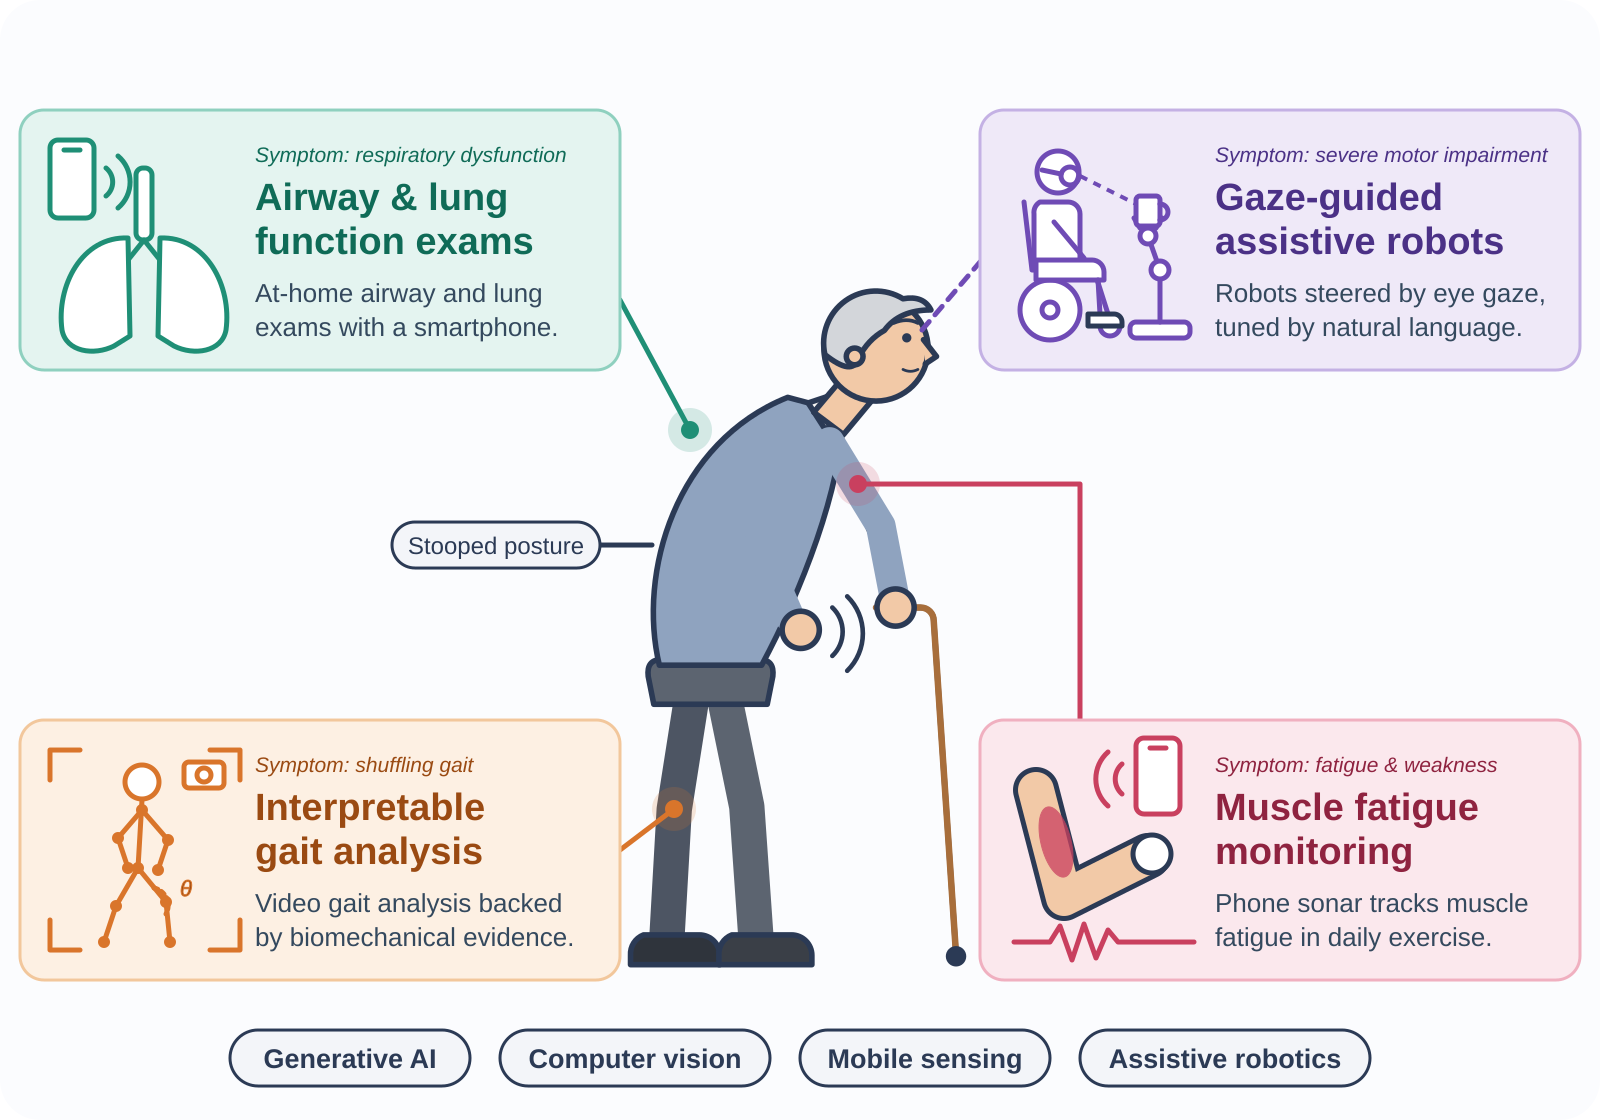
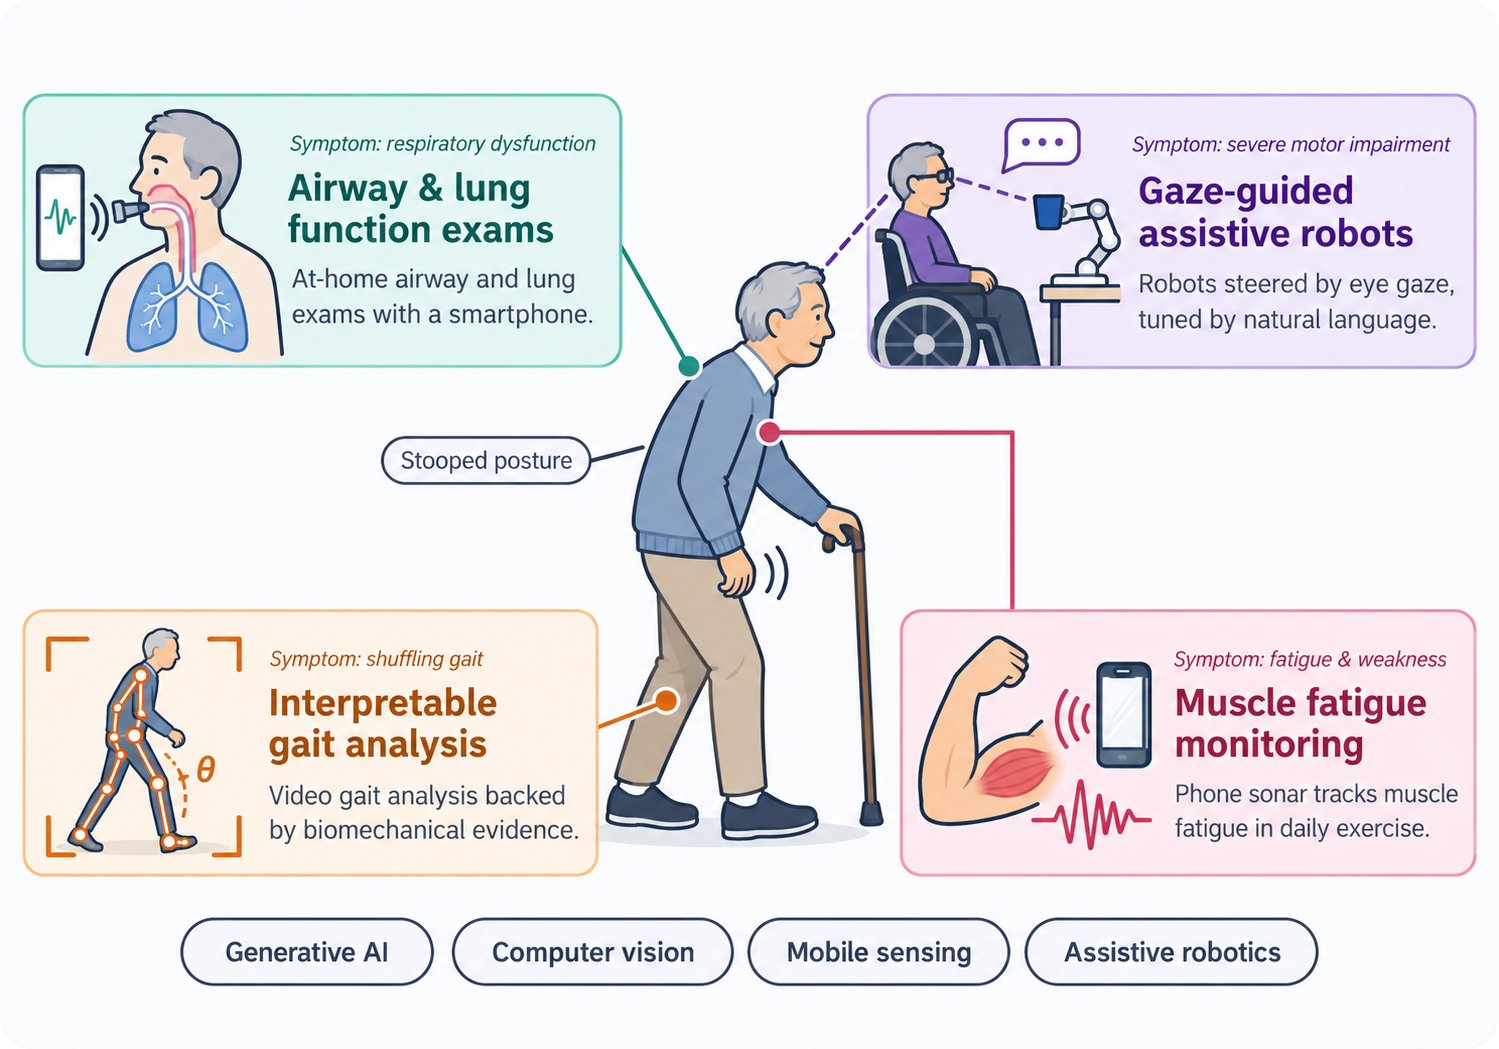
Replace the Parkinson's overview figure with a generated illustration
The hand-drawn SVG had reached the limits of what is practical to draw by
hand. Use an illustration generated by ChatGPT from a written brief
instead: the same layout (an older adult with a stooped posture, short
steps, a cane and a resting tremor in the middle; four coloured cards with
scene illustrations around them; method tags at the bottom) with far
better figure drawing. Keep the brief next to the image so the figure can
be regenerated, and drop the SVG, which no longer is the source. The
generated image had black corners outside its rounded backdrop; they are
made transparent so the figure sits on both the light and the dark page
background.

Claude-Session: https://claude.ai/code/session_015tot2rbdwVWfAt5Jtk1dKD

Changed region(s): [[0.0, 0.0915, 1.0, 0.9762]]

diff --git a/CLAUDE.md b/CLAUDE.md
@@ -86,7 +86,7 @@ Actions are pinned to commit SHAs with the tag in a trailing comment.
 | `content/dataset/`, `content/video-and-demos/`, `content/contact/` | Single landing pages built from `markdown`/`contact` blocks |
 | `data/news.yaml` | All news items; rendered on the homepage, on `/news/` (`content/news/_index.md`) and in `/news/index.xml` |
 | `assets/media/` | Images used by content; per-paper figures live in `assets/media/<pub-dir>/` |
-| `assets/media/parkinsons-overview.svg` | Source of the Parkinson's project overview figure; export with `rsvg-convert -w 1600 assets/media/parkinsons-overview.svg -o assets/media/parkinsons-overview.png` |
+| `assets/media/parkinsons-overview-prompt.txt` | The prompt that produced `parkinsons-overview.png` (ChatGPT image generation, September 2026); the earlier hand-drawn SVG version (September 2026) is in git history. The generated image had black corners outside its rounded backdrop; they were made transparent with Pillow. |
 | `static/uploads/` | PDFs (posters etc.) served at `/uploads/...` |
 | `static/vendor/` | Self-hosted front-end libraries (generated, see above) |
 | `data/assets.toml` | URLs, versions and SRI of the theme's JS/CSS libraries |
